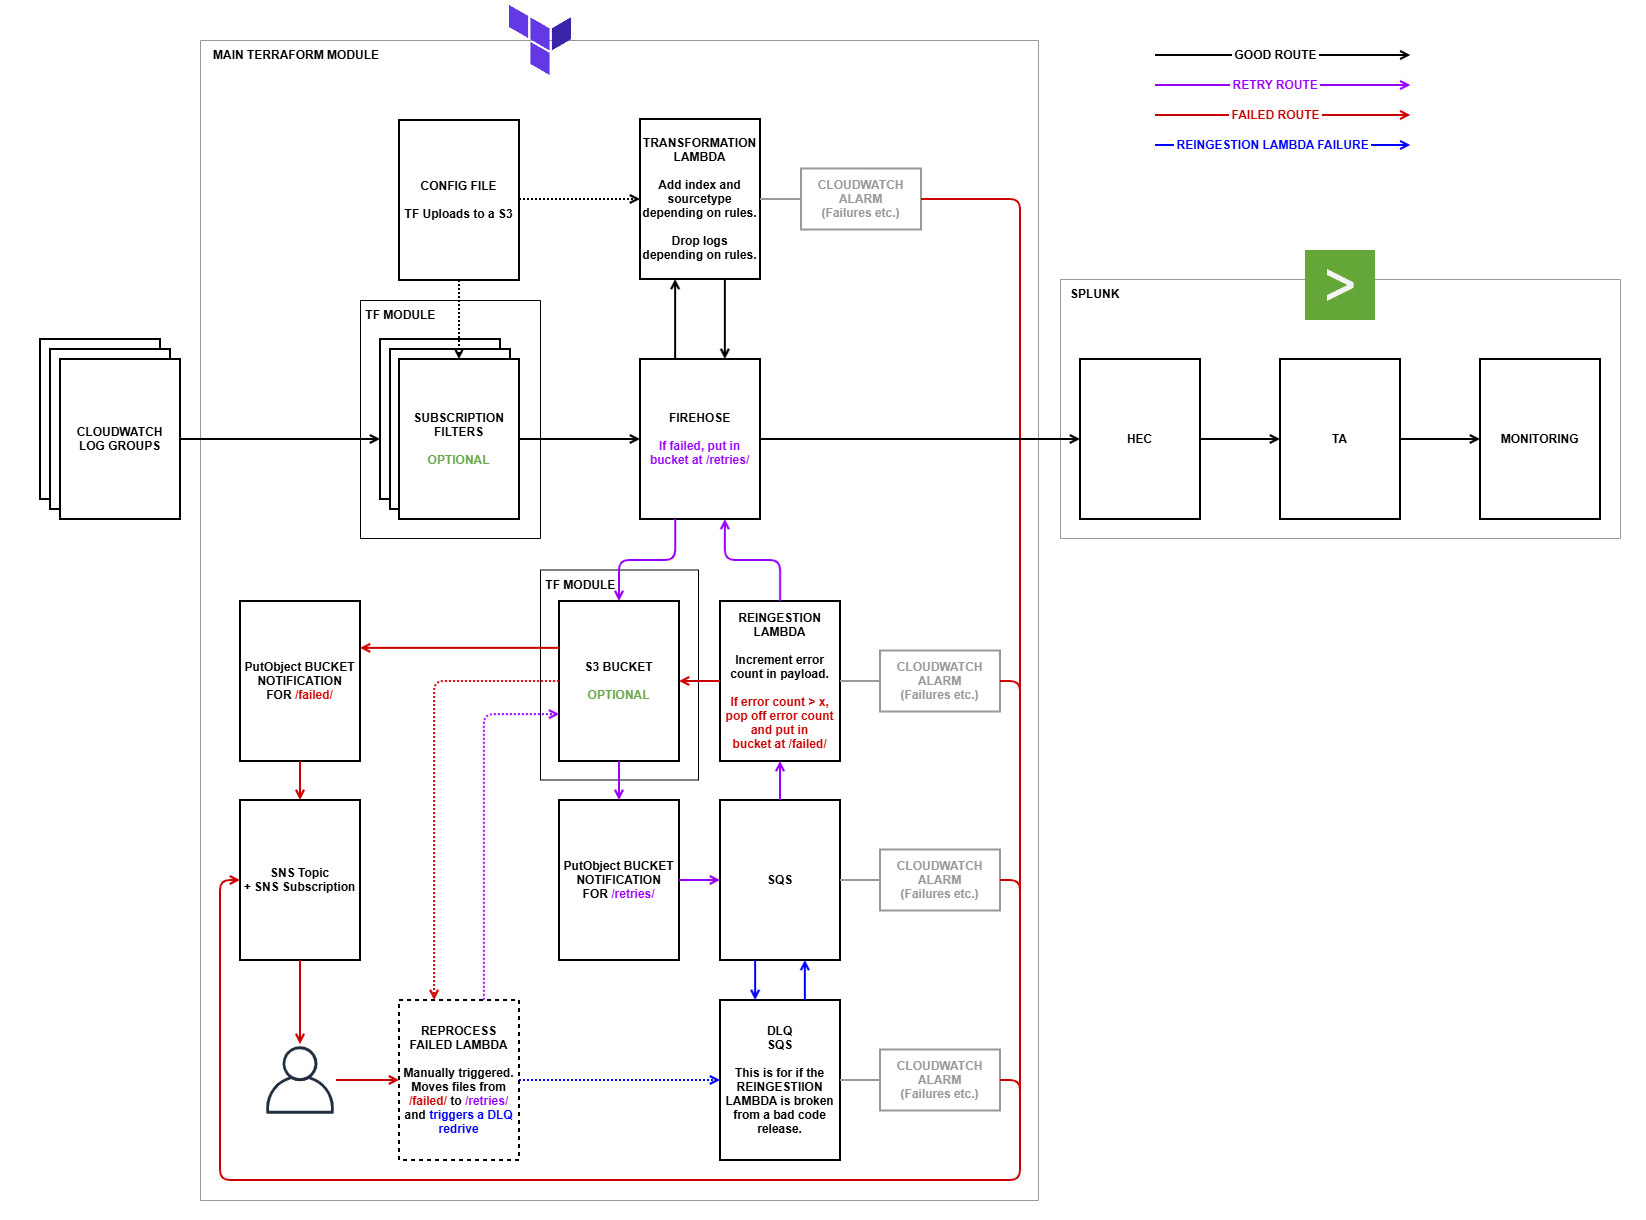
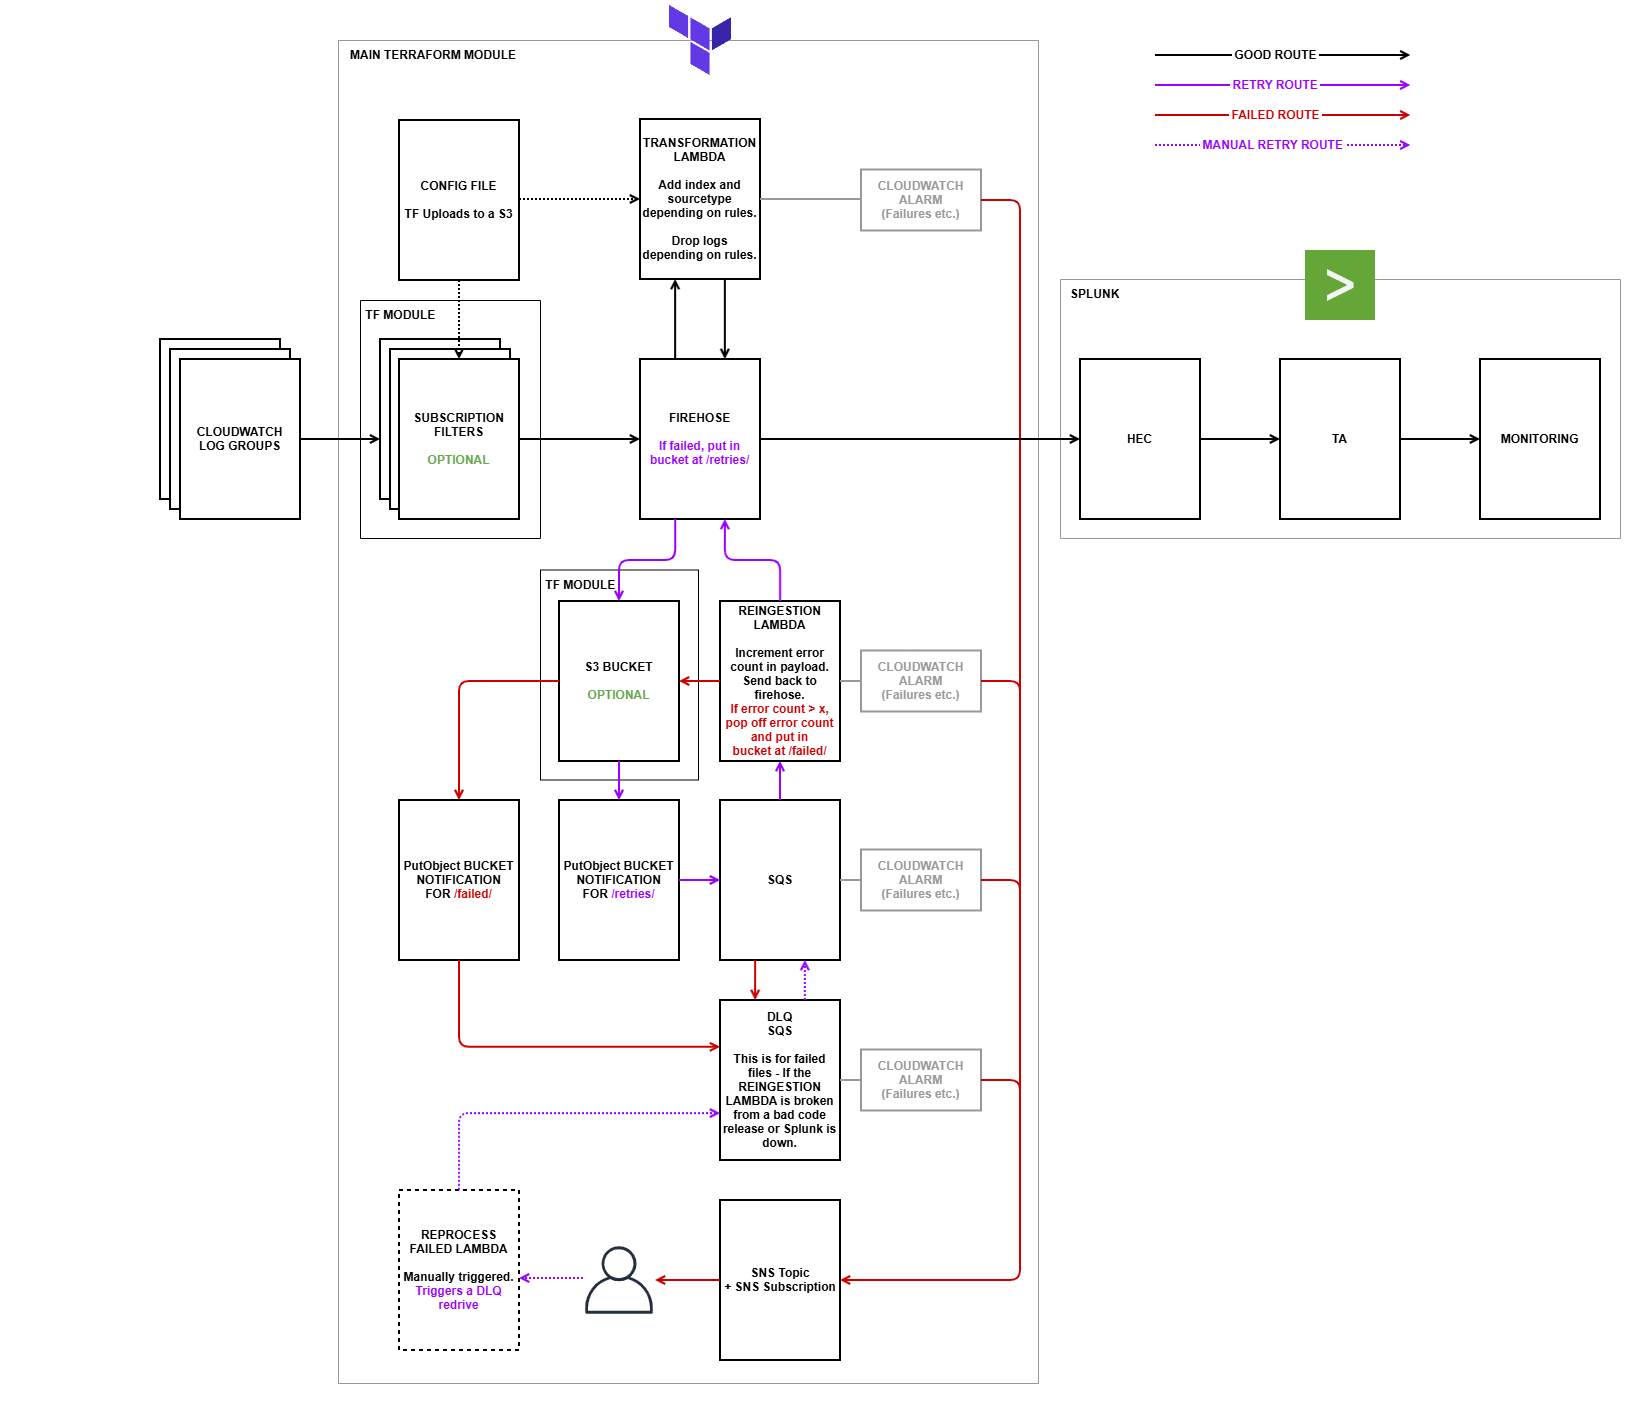
SE-909 Updates cloudwatch alarm to dynamic threshold for notification (#11)
* SE-909 Adds CloudWatch alarm for BytesPerSecondLimit, PutRequestsPerSecondLimit, RecordsPerSecondLimit

* SE-909 Changed architecture to send failed files to DLQ

* SE-909 Fixes missing local variable call

* SE-909 Fixes DLQ bucket permissions and unique alarm names

* SE-909 Fixes DLQ policy name

* SE-909 Fixes CloudWatch alarm name

* SE-909 Updates CloudWatch alarms to use metric_query

* SE-909 Fixes CloudWatch Alarm metric and associated diagram

* SE-909 Tests 10% on CloudWatch alarm for IncomingBytes

* SE-909 Fixes period value in CloudWatch Alarms

* SE-909 Remoces IncomingBytes alarm

* SE-909 Adds IncomingBytes alarm

* SE-909 Corrects CloudWatch alarm

* SE-909 Removes CloudWatch alarms for testing

* SE-909 Adds back CloudWatch Alarms in

* SE-909 Tests Cloudwatch alarms solution

* SE-909 Tests Cloudwatch alarms solution

* SE-909 Fixes Min in Cloudwatch alarm

* SE-909 Updates CloudWatch alarm with correct units

* SE-909 Corrects spelling error for Minimum

* SE-909 Corrects spelling error for Bytes/Second

* SE-909 Removes all units from CloudWatch Alarms

* SE-909 Updates accomodate new comment additions

* SE-909 Updates name for optional flag variable

---------

diff --git a/lambdas/process_failures_lambda/src/mbtp_splunk_cloudwatch_process_failures/handler.py b/lambdas/process_failures_lambda/src/mbtp_splunk_cloudwatch_process_failures/handler.py
@@ -79,4 +79,3 @@ def lambda_handler(_event, _context):
     """Lambda function to re-processed any files that
     failed to be sent to Splunk after the retries."""
     redrive_dlq_sqs(environ["DLQ_QUEUE_ARN"], environ["SQS_QUEUE_ARN"])
-    reprocess_failed_files(environ["S3_BUCKET_NAME"])
